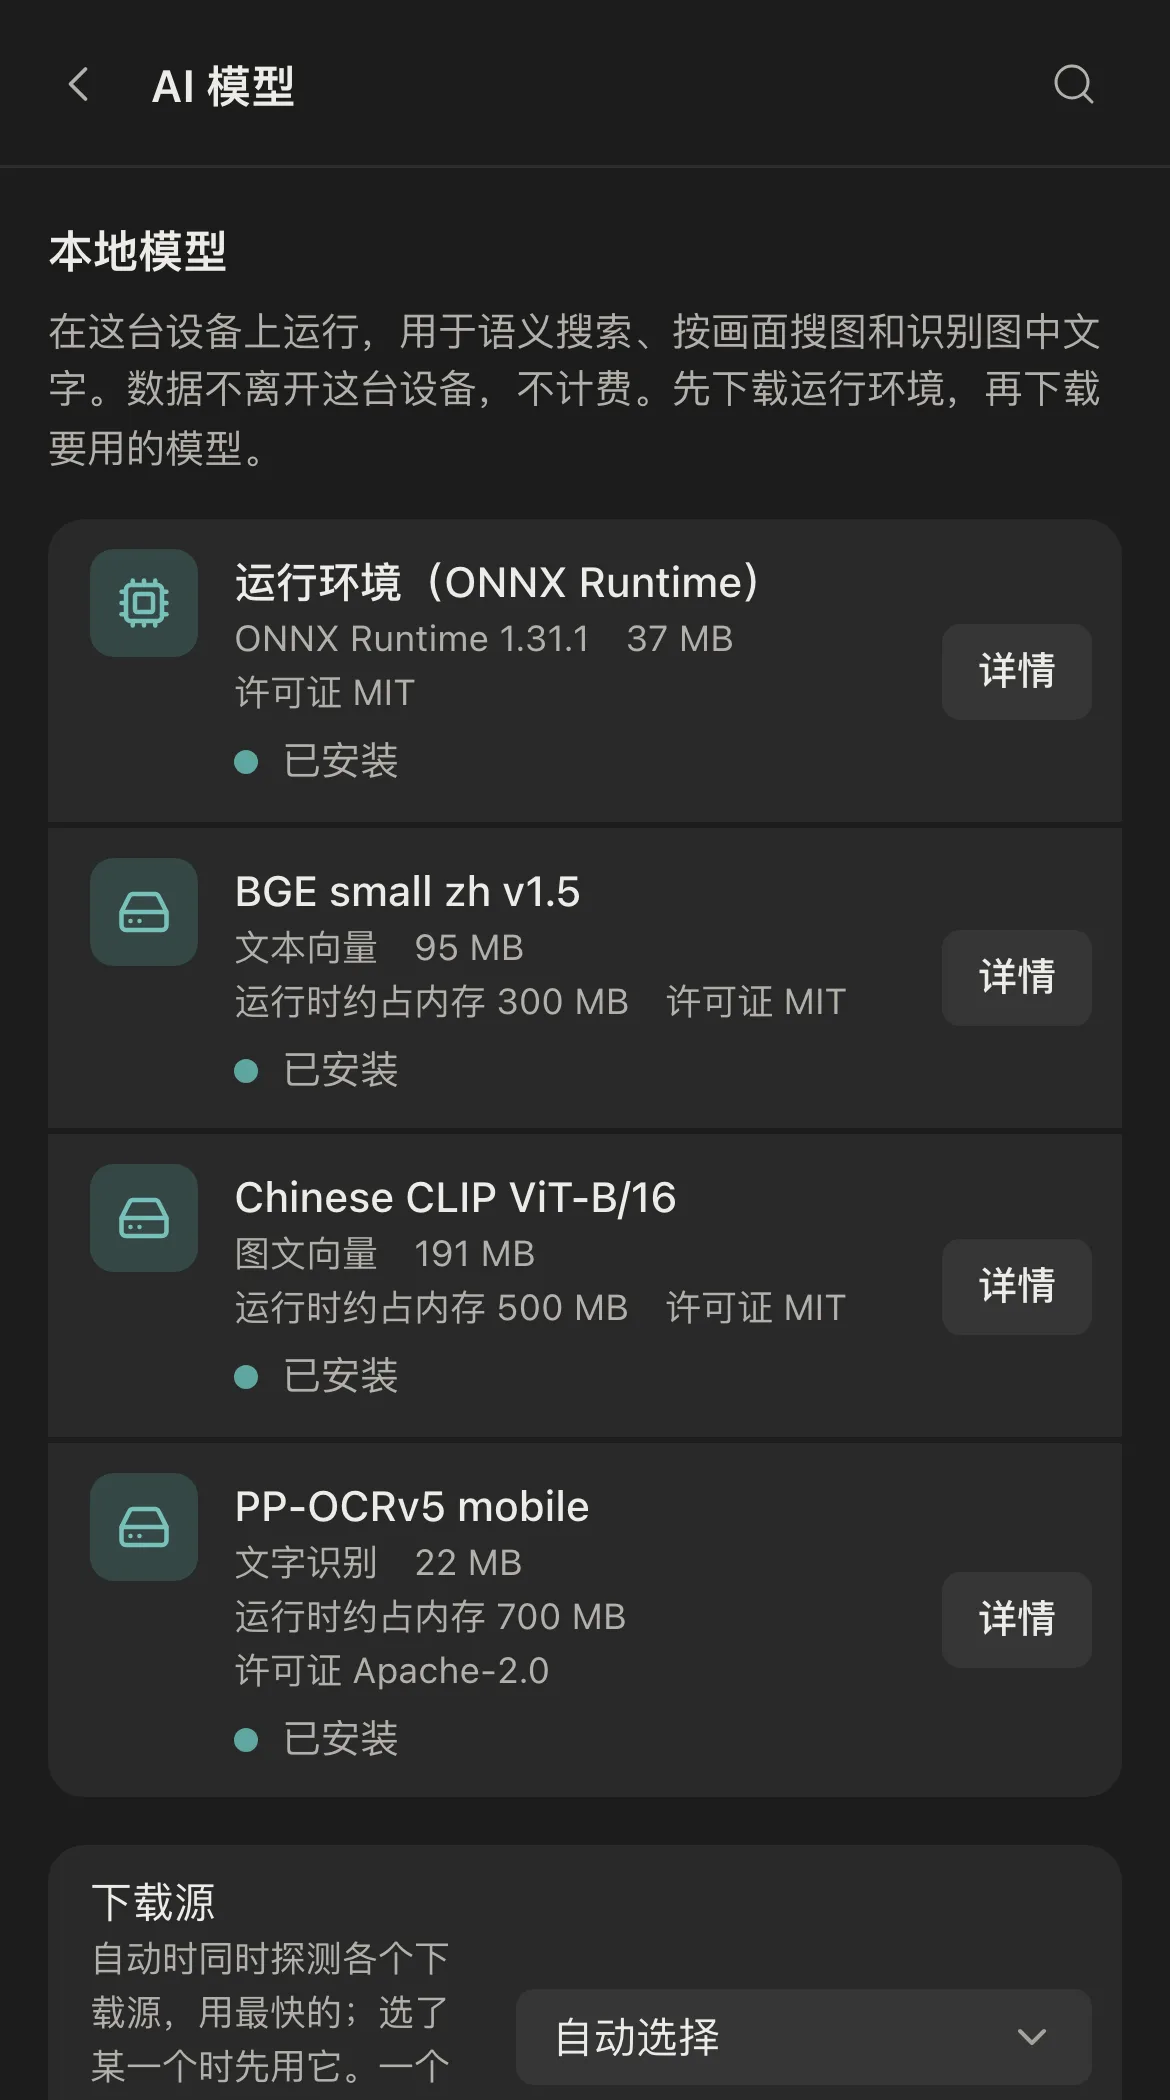
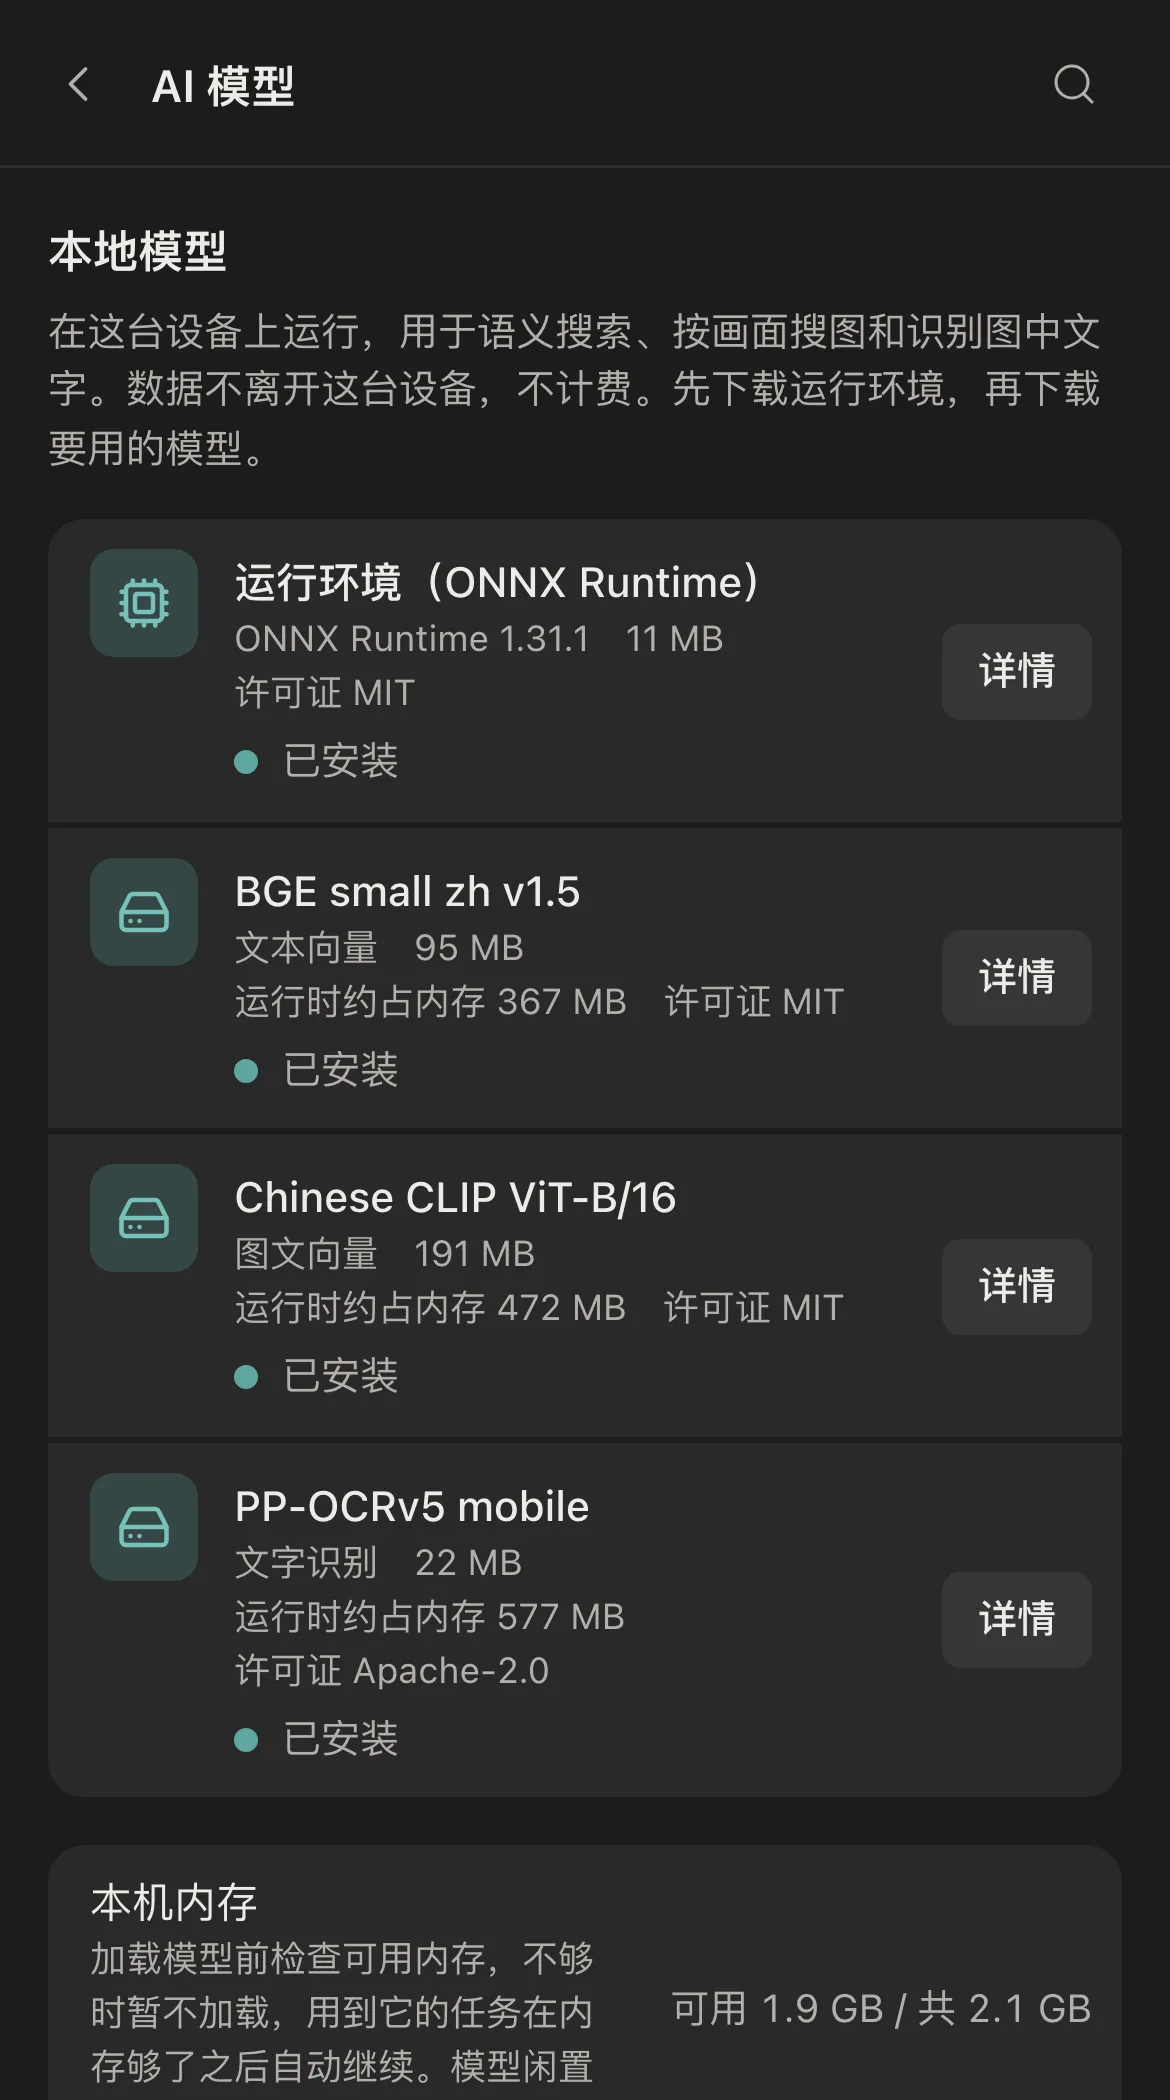
feat: Keepbay 首页本地模型截图按 0.1.0-beta.6 重截，文档版本号示例改为 beta.6

diff --git a/sites/keepbay/docs/directories.md b/sites/keepbay/docs/directories.md
@@ -11,11 +11,11 @@ Keepbay 创建的内容集中在以下位置：安装目录、数据目录、系
 ```
 /opt/keepbay/
 ├── versions/                                  # 各个版本的程序
-│   ├── keepbay_0.1.0-beta.4_linux_amd64/      # 上一个版本，用于回滚
-│   ├── keepbay_0.1.0-beta.5_linux_amd64/      # 正在用的版本
+│   ├── keepbay_0.1.0-beta.5_linux_amd64/      # 上一个版本，用于回滚
+│   ├── keepbay_0.1.0-beta.6_linux_amd64/      # 正在用的版本
 │   ├── .download-<版本>                        # 在线更新：下载中的安装包
 │   └── .staging-<版本>/                        # 在线更新：解压中的新版本
-├── current -> versions/keepbay_0.1.0-beta.5_linux_amd64
+├── current -> versions/keepbay_0.1.0-beta.6_linux_amd64
 ├── .current-new                               # 在线更新：切换 current 时的临时链接
 └── keepbay -> current/keepbay                 # 命令行使用这个路径
 ```

diff --git a/sites/keepbay/index.md b/sites/keepbay/index.md
@@ -60,7 +60,7 @@ screenshots:
   - name: local-models
     title: 本地模型
     desc: 语义搜索、按画面搜图、识别图片中的文字所用的模型在您的设备上运行，数据不离开这台设备
-    alt: AI 模型设置中的本地模型：ONNX Runtime 运行环境，以及文本向量、图文向量、文字识别三个模型，都已安装
+    alt: AI 模型设置中的本地模型：上方显示本机的可用内存，下面是 ONNX Runtime 运行环境，以及文本向量、图文向量、文字识别三个模型和各自运行时的内存，都已安装
   - name: ai-calls
     title: 调用记录
     desc: 每一次 AI 调用都有记录：谁发起的、哪项功能、用了哪个模型、发送了什么
